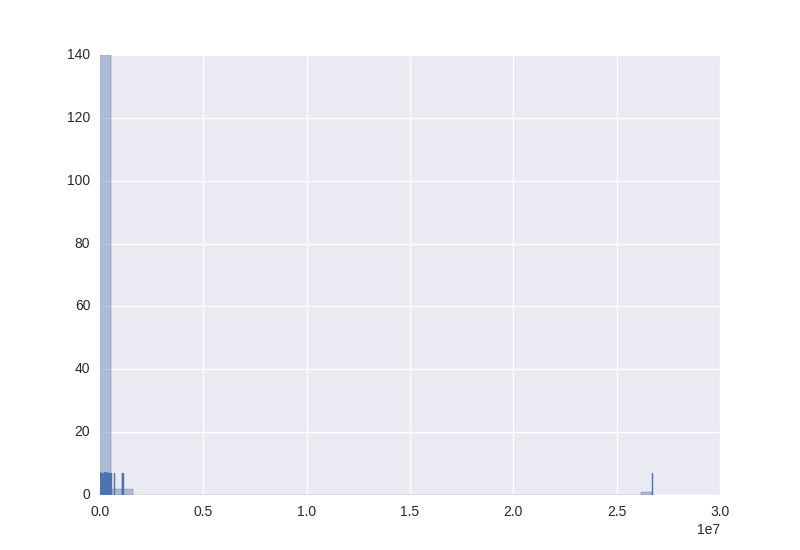
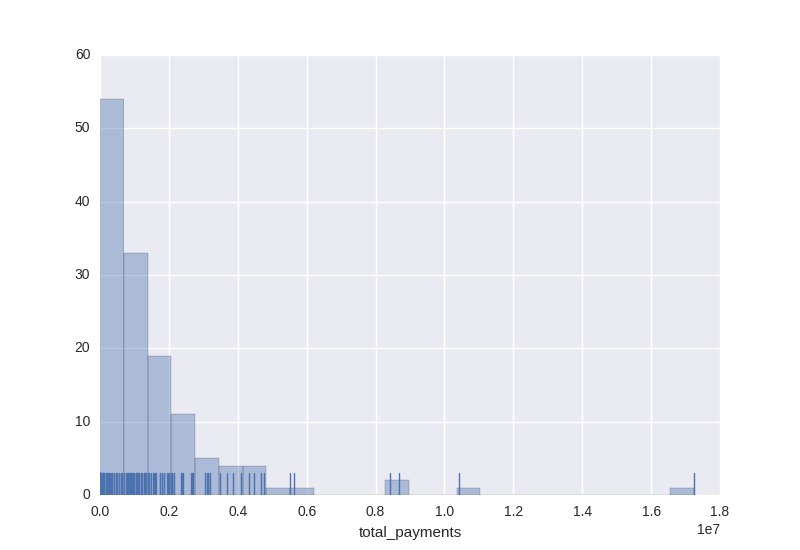
add histogram label

diff --git a/poi_id.py b/poi_id.py
@@ -22,8 +22,8 @@ from tester import dump_classifier_and_data
 ## After explore all the features, remove loan_advances,
 # restricted_stock_deferred, deferred_income, director_fees
 def hist_and_save_pic(data, name):
-    sns_plot = sns.distplot(data,  kde=False, rug=True)
-    sns.plt.show()
+    sns_plot = sns.distplot(data,  kde=False, rug=True, axlabel=name)
+    # sns.plt.show()
     sns_plot.get_figure().savefig(name+".png")
 #
 
@@ -184,10 +184,10 @@ data = np.delete(data, outlier_idx, 0)
 outlier_idx = min_index(data, 2)
 data = np.delete(data, outlier_idx, 0)
 
-# hist_and_save_pic(data[:,1], "salary")
-# hist_and_save_pic(data[:,2], "restricted_stock_deferred")
-# hist_and_save_pic(data[:,3], "expenses")
-# hist_and_save_pic(data[:,4], "shared_receipt_with_poi")
+hist_and_save_pic(data[:,1], "total_payments")
+hist_and_save_pic(data[:,2], "restricted_stock_deferred")
+hist_and_save_pic(data[:,3], "expenses")
+hist_and_save_pic(data[:,4], "shared_receipt_with_poi")
 # print len(data)
 
 
